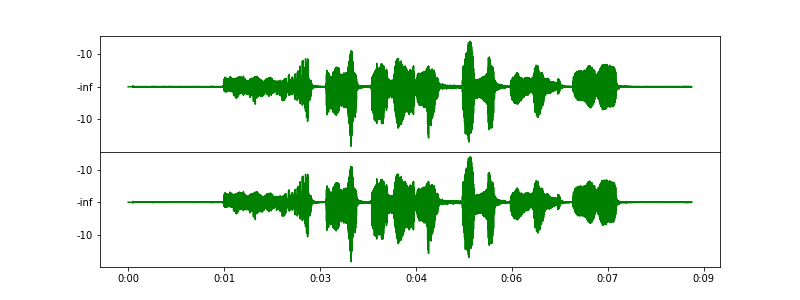
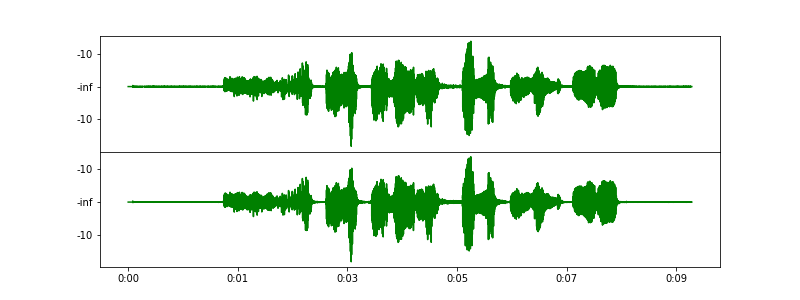
temp commit

diff --git a/my_fonogram.py b/my_fonogram.py
@@ -1,0 +1,78 @@
+import matplotlib
+import matplotlib.pyplot as plt
+import wave
+import numpy as np
+from matplotlib.colors import BoundaryNorm
+from matplotlib.ticker import MaxNLocator
+
+types = {
+    1: np.int8,
+    2: np.int16,
+    4: np.int32
+}
+
+def getSpectrogram(x, m, N):
+    z = []
+    for i in range(len(x) - m + 1):
+        column = x[i:i + m]
+        newcolumn = np.fft.fft(column)
+        z.append(newcolumn)
+        #z[i] = newcolumn
+    return z
+
+filename = "audio_sample.wav"
+
+wv = wave.open(filename, mode='r')
+
+(nchammels, sampwidth, framerate, nframes, comtype, compname) = wv.getparams()
+
+frames = wv.readframes(nframes)
+samples = np.frombuffer(frames, dtype=types[sampwidth])
+channel = samples[0::2]
+print(len(channel))
+channel = channel[0:10000]
+
+wv.close()
+
+# Clip is a chunk of samples.
+
+dx = 1
+dy = 1
+y, x = np.mgrid[slice(0, 100, 1), 
+                slice(1, 100, 1)]
+
+m = 1000
+N = len(channel)
+z = getSpectrogram(channel, m, N)
+#z = np.fft.fft(x[:m])
+
+z = np.sin(x**10 + np.cos(10 + y * x) * np.cos(x))
+z = z[:-1, :-1]
+levels = MaxNLocator(nbins=15).tick_values(z.min(), z.max())
+
+cmap = plt.get_cmap('PiYG')
+norm = BoundaryNorm(levels, ncolors=cmap.N, clip=True)
+
+fig, (ax0, ax1) = plt.subplots(nrows=2)
+
+im = ax0.pcolormesh(x, y, z, cmap=cmap, norm=norm)
+fig.colorbar(im, ax=ax0)
+ax0.set_title('pcolormesh with levels')
+
+# contours are *point* based plots, so convert our bound into point
+# centers
+cf = ax1.contourf(x[:-1, :-1] + dx/2.,
+                  y[:-1, :-1] + dy/2., z, levels=levels,
+                  cmap=cmap)
+fig.colorbar(cf, ax=ax1)
+ax1.set_title('contourf with levels')
+
+# adjust spacing between subplots so `ax1` title and `ax0` tick labels
+# don't overlap
+fig.tight_layout()
+
+#plt.plot([1,2,3,4], [1,4,9,16])
+#plt.axis([0, 6, 0, 20])
+#plt.ylabel('y')
+#plt.xlabel('x')
+plt.show()

diff --git a/fonogram_example.py b/fonogram_example.py
@@ -35,7 +35,7 @@ wav = wave.open("sample_2.wav", mode="r")
 
 duration = nframes / framerate
 w, h = 800, 300
-k = 7#nframes/w/32
+k = (int)(nframes/w/32)
 DPI = 72
 peak = 256 ** sampwidth / 2
 
